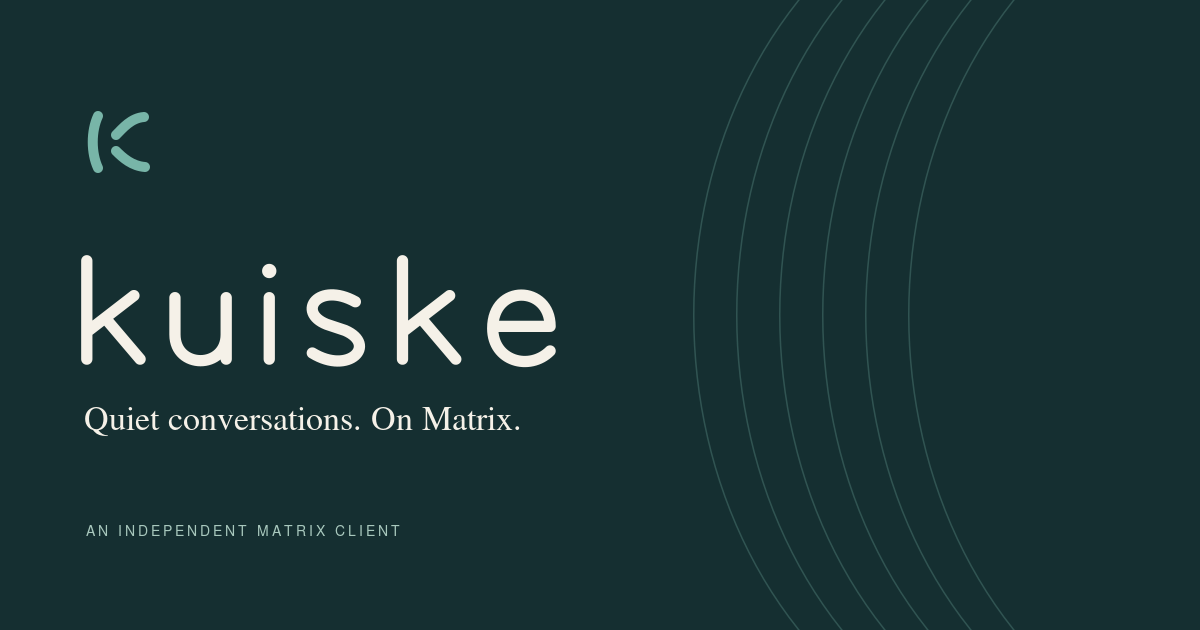
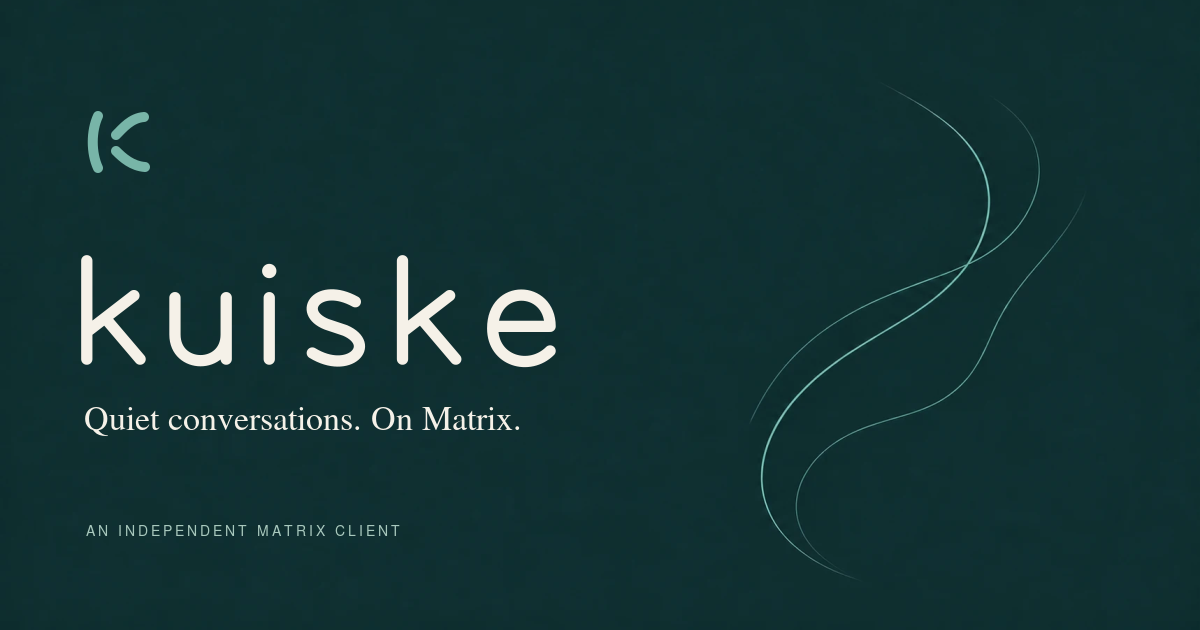
Update Kuiske vanity site

diff --git a/style.css b/style.css
@@ -6,16 +6,16 @@ img{max-width:100%;display:block}a{color:inherit;text-underline-offset:5px}a:hov
 .site-header{display:flex;align-items:center;justify-content:space-between;padding-block:30px;gap:24px;border-bottom:1px solid var(--kuiske-line)}.identity{display:flex;align-items:center;gap:6px;flex-shrink:0}.identity img:last-child{width:108px;height:32px}.site-header nav{display:flex;gap:34px;font-size:13px}.site-header nav a{text-decoration:none}.site-header nav a:hover{text-decoration:underline}
 .hero{display:grid;grid-template-columns:1.1fr 1fr;align-items:center;min-height:650px;position:relative}.hero-copy{padding-block:68px;z-index:1}.eyebrow,.small-label{font-family:var(--kuiske-mono);text-transform:uppercase;font-size:10px;font-weight:500;letter-spacing:1.5px}.eyebrow{display:flex;align-items:center;gap:10px;margin:0 0 30px}.status-dot{display:inline-block;width:6px;height:6px;border-radius:50%;background:var(--kuiske-teal-deep);flex:none}
 h1,h2,h3,p{margin-top:0}h1,h2{font-family:var(--kuiske-serif);font-weight:400;letter-spacing:-2.6px;line-height:1.06}h1{font-size:clamp(48px,5.8vw,82px);margin:0 0 28px}h1 em{color:var(--kuiske-teal-deep);font-weight:400}.hero-description{color:var(--kuiske-muted);font-size:17px;line-height:1.8;margin-bottom:30px}.button{display:inline-flex;align-items:center;gap:40px;text-decoration:none;background:var(--kuiske-ink);color:var(--kuiske-birch);padding:13px 22px;border-radius:5px;font-size:13px;transition:background .15s}.button:hover{background:var(--kuiske-teal-deep)}.hero-note{font-size:11px;color:var(--kuiske-muted);margin:16px 0 0}
-.hero-art{height:500px;position:relative;display:grid;place-items:center;overflow:hidden;background:radial-gradient(ellipse,#e0e7da 0%,#f5f1e8 66%)}.field{position:absolute;width:120%;max-width:none;opacity:.85;transform:rotate(-6deg)}.icon-plinth{transform:rotate(-8deg);padding:20px;border-radius:42px;background:#e9ece2;box-shadow:8px 30px 70px #152f311a,-7px -7px 30px #ffffff85;z-index:1}.icon-plinth img{border-radius:36px;box-shadow:4px 9px 17px #152f3124}.art-annotation{position:absolute;bottom:22px;left:10%;font-family:var(--kuiske-mono);font-size:11px}.art-annotation span{font-size:10px;color:var(--kuiske-muted)}
+.hero-art{height:500px;position:relative;overflow:hidden}.hero-image{width:100%;height:100%;object-fit:contain;mask-image:radial-gradient(ellipse 65% 64% at 55% 48%,#000 45%,transparent 85%)}.art-annotation{position:absolute;bottom:22px;left:10%;font-family:var(--kuiske-mono);font-size:11px}.art-annotation span{font-size:10px;color:var(--kuiske-muted)}
 .intro-line{display:flex;align-items:center;gap:40px;border-block:1px solid var(--kuiske-line);padding-block:21px}.intro-line>span:first-child{font:10px var(--kuiske-mono);letter-spacing:1.4px}.intro-line p{margin:0;font-size:13px;color:var(--kuiske-muted)}.intro-line>span:last-child{margin-left:auto;font-size:24px}
 .idea{padding-block:100px;display:grid;grid-template-columns:1fr 1fr;column-gap:80px}.idea>.eyebrow{grid-column:1/-1;margin-bottom:24px}h2{font-size:clamp(34px,4vw,52px);letter-spacing:-1.7px;margin-bottom:24px}.idea h2{margin-bottom:0}.idea-body{max-width:440px;color:var(--kuiske-muted);padding-top:4px}.idea-body p:last-child{margin-bottom:0}
 .inside{padding-top:35px;padding-bottom:90px}.section-heading{display:flex;justify-content:space-between;align-items:end;margin-bottom:32px;gap:24px}.section-heading .eyebrow{margin-bottom:16px}.section-heading h2{font-size:38px;margin:0}.small-label{font-size:9px;white-space:nowrap;color:var(--kuiske-muted)}
 .product-figure{margin:0}.product-window{border:1px solid #304144;border-radius:12px;overflow:hidden;background:#10191b;color:#e9efea;box-shadow:0 24px 48px #152f3114;font-size:12px}.window-bar{height:42px;padding-inline:18px;display:flex;align-items:center;justify-content:space-between;background:#1d2c30;border-bottom:1px solid #304144;font-size:11px}.window-bar>span:first-child{letter-spacing:5px;color:#8a9c94;font-size:9px}.window-bar>span:last-child{color:#a0b3b0;font-size:10px}.product-body{display:grid;grid-template-columns:145px 115px 225px 1fr;min-height:400px}.mock-accounts,.mock-spaces,.mock-rooms{position:relative;background:#172326;border-right:1px solid #304144;padding:22px 14px}.mock-label{font:8px var(--kuiske-mono);letter-spacing:1.2px;color:#a0b3b0;margin:0 0 18px}.mock-accounts>img{margin:0 0 24px -4px}.mock-account{display:flex;align-items:center;gap:8px;padding:9px 3px;margin-bottom:7px;font-size:10px}.mock-account>b{border-radius:7px;width:24px;height:27px;display:grid;place-items:center;background:#78b5a8;color:#152f31;font-size:11px}.mock-account>b.lichen{background:#d1dbbc}.mock-account small{display:block;color:#a0b3b0;font-size:8px}.mock-bottom{position:absolute;bottom:20px;font-size:9px;color:#a0b3b0}.mock-spaces>p:not(.mock-label){padding:8px 5px;font-size:10px}.mock-active{background:#263b3c;border-radius:4px}.mock-search{font-size:10px;border:1px solid #304144;padding:9px;border-radius:5px;color:#a0b3b0}.mock-room{display:flex;gap:10px;align-items:center;margin-bottom:10px;padding:12px 7px}.mock-room>span{font-size:17px;color:#78b5a8}.mock-room div{font-size:10px}.mock-room small{display:block;color:#a0b3b0;font-size:8px;margin-top:5px}.mock-conversation{padding:0 22px 20px;display:flex;flex-direction:column;min-width:0}.mock-chat-heading{border-bottom:1px solid #304144;margin-inline:-22px;padding:17px 22px}.mock-chat-heading>b{font-size:14px;font-weight:500}.mock-chat-heading small{display:block;color:#a0b3b0;font-size:9px;margin-top:4px}.mock-date{text-align:center;color:#a0b3b0;font:8px var(--kuiske-mono);margin:18px 0}.mock-message{max-width:87%;align-self:flex-start;margin-bottom:16px}.mock-message>span{font-size:9px;color:#a0b3b0}.mock-message time{font-size:8px;padding-left:6px}.mock-message p{background:#1d2c30;border:1px solid #304144;border-radius:0 10px 10px;padding:10px 13px;margin:5px 0 0;font-size:11px}.mock-message.own{align-self:flex-end}.mock-message.own>span{display:block;text-align:right}.mock-message.own p{background:#263d38;border-color:#3f5d50;border-radius:10px 0 10px 10px}.mock-composer{margin-top:auto;border:1px solid #304144;border-radius:6px;padding:10px 12px;color:#a0b3b0;font-size:10px;display:flex;justify-content:space-between}.mock-composer>span{color:#c8ddac}
 figcaption{display:flex;align-items:center;gap:8px;color:var(--kuiske-muted);font-size:10px;margin-top:16px}.features{display:grid;grid-template-columns:repeat(3,1fr);gap:52px;margin-top:55px}.feature-number{font:10px var(--kuiske-mono);color:var(--kuiske-teal-deep);display:block;margin-bottom:18px}.features h3{font-size:16px;font-weight:500;letter-spacing:-.3px;margin-bottom:13px}.features p{font-size:13px;color:var(--kuiske-muted);line-height:1.8;margin-bottom:0}
-.project{border-block:1px solid var(--kuiske-line);padding-block:76px;display:grid;grid-template-columns:1.2fr 1fr;gap:100px}.project>div>p:not(.eyebrow){color:var(--kuiske-muted);font-size:14px;max-width:460px}.project-note{background:#e6eadd;padding:32px 36px;border-radius:6px;align-self:start}.project-note>p{font-family:var(--kuiske-serif);font-size:30px;line-height:1.2;letter-spacing:-.6px;margin:24px 0}.project-note dl{margin:0 0 28px}.project-note dl>div{display:flex;align-items:baseline;gap:16px;font-size:12px;padding:9px 0;border-bottom:1px solid #cbd2c2}.project-note dt{width:76px;font-weight:500}.project-note dt a{text-decoration:none}.project-note dd{color:var(--kuiske-muted);margin:0}.text-link{font-size:12px}.closing{display:flex;align-items:center;gap:20px;padding-block:48px}.closing>p{font-family:var(--kuiske-serif);font-size:24px;letter-spacing:-.5px;margin:0}.closing strong{font-weight:400}.closing>span{margin-left:auto;font-size:11px;color:var(--kuiske-muted)}footer{border-top:1px solid var(--kuiske-line);padding-block:24px 36px;display:flex;justify-content:space-between;gap:24px;font-size:10px;color:var(--kuiske-muted)}footer p{margin:0}footer>div{display:flex;gap:24px}footer a{text-decoration:none}
+.project{border-block:1px solid var(--kuiske-line);padding-block:76px;display:grid;grid-template-columns:1.2fr 1fr;gap:100px}.project>div>p:not(.eyebrow){color:var(--kuiske-muted);font-size:14px;max-width:460px}.project-note{background:#e6eadd;padding:32px 36px;border-radius:6px;align-self:start}.family-detail{width:calc(100% + 72px);max-width:none;height:160px;object-fit:cover;object-position:center 45%;margin:-32px -36px 28px;border-radius:6px 6px 0 0}.project-note>p{font-family:var(--kuiske-serif);font-size:30px;line-height:1.2;letter-spacing:-.6px;margin:24px 0}.project-note dl{margin:0 0 28px}.project-note dl>div{display:flex;align-items:baseline;gap:16px;font-size:12px;padding:9px 0;border-bottom:1px solid #cbd2c2}.project-note dt{width:76px;font-weight:500}.project-note dt a{text-decoration:none}.project-note dd{color:var(--kuiske-muted);margin:0}.text-link{font-size:12px}.closing{display:flex;align-items:center;gap:20px;padding-block:48px}.closing>p{font-family:var(--kuiske-serif);font-size:24px;letter-spacing:-.5px;margin:0}.closing strong{font-weight:400}.closing>span{margin-left:auto;font-size:11px;color:var(--kuiske-muted)}footer{border-top:1px solid var(--kuiske-line);padding-block:24px 36px;display:flex;justify-content:space-between;gap:24px;font-size:10px;color:var(--kuiske-muted)}footer p{margin:0}footer>div{display:flex;gap:24px}footer a{text-decoration:none}
 @media(min-width:1440px){.hero h1{font-size:86px}}
-@media(max-width:1050px){.wrap{width:calc(100% - 64px)}.hero{min-height:570px}.hero-art{height:420px}.icon-plinth{padding:16px}.icon-plinth img{width:140px;height:140px}.product-body{grid-template-columns:115px 95px 175px 1fr}.mock-rooms,.mock-accounts,.mock-spaces{padding-inline:10px}.mock-room{padding-inline:5px}.mock-room small{font-size:7px}.project{gap:50px}.features{gap:30px}.idea{gap:40px}.section-heading h2{font-size:34px}}
-@media(max-width:760px){.wrap{width:calc(100% - 40px)}.site-header{padding-block:20px}.site-header nav{gap:18px;font-size:11px}.site-header nav a:first-child{display:none}.identity{gap:0}.identity img:first-child{width:32px;height:32px}.identity img:last-child{width:95px;height:28px}.hero{grid-template-columns:1fr;min-height:auto}.hero-copy{padding-block:52px 0}h1{font-size:clamp(46px,10vw,68px);letter-spacing:-1.8px}.hero-description{font-size:15px}.hero .eyebrow{font-size:9px;letter-spacing:1px;margin-bottom:24px}.hero-art{height:340px;max-width:440px;width:100%;margin-inline:auto}.field{width:100%;height:100%}.icon-plinth{padding:12px;border-radius:34px}.icon-plinth img{width:112px;height:112px;border-radius:24px}.art-annotation{bottom:20px;left:12%}.hero-note{font-size:10px}.intro-line{gap:20px;padding-block:17px}.intro-line>span:first-child{font-size:8px}.intro-line p{font-size:11px;max-width:170px}.intro-line>span:last-child{font-size:20px}.idea{padding-block:60px;grid-template-columns:1fr;gap:0}.idea>.eyebrow{margin-bottom:20px}.idea h2{margin-bottom:24px}.idea-body{font-size:14px}.inside{padding-top:15px;padding-bottom:60px}.section-heading{align-items:start}.section-heading h2{font-size:30px;max-width:280px}.section-heading>.small-label{display:none}.product-window{border-radius:8px}.product-body{grid-template-columns:100px 1fr;min-height:390px}.mock-spaces,.mock-accounts{display:none}.mock-rooms{padding:20px 6px}.mock-rooms .mock-label{font-size:6px;letter-spacing:.5px}.mock-room{padding:10px 4px;gap:5px;align-items:start}.mock-room>span{font-size:12px}.mock-room div{font-size:8px}.mock-room small{font-size:7px;overflow-wrap:anywhere}.mock-search{font-size:8px;padding:6px}.mock-conversation{padding-inline:12px}.mock-chat-heading{margin-inline:-12px;padding-inline:12px}.mock-chat-heading>b{font-size:12px}.mock-chat-heading small{font-size:8px}.mock-message p{padding:9px;font-size:10px}.window-bar>span:last-child{display:none}.window-bar{height:34px;font-size:10px}.mock-composer{font-size:9px;padding-inline:9px}.features{grid-template-columns:1fr;gap:26px;margin-top:32px}.features article{display:grid;grid-template-columns:28px 1fr;column-gap:12px}.feature-number{grid-row:1/3;margin-top:5px}.features h3{margin-bottom:8px}.features p{grid-column:2}.project{grid-template-columns:1fr;gap:28px;padding-block:52px}.project .eyebrow{font-size:8px;letter-spacing:1px}.project-note{padding:26px}.project-note>p{font-size:28px}.closing{gap:12px;padding-block:32px;flex-wrap:wrap}.closing img{width:36px;height:36px}.closing>p{font-size:21px}.closing>span{margin:0 0 0 48px}footer{flex-direction:column;gap:14px;font-size:9px}footer>div{gap:20px;flex-wrap:wrap}figcaption{font-size:9px;align-items:baseline}}
+@media(max-width:1050px){.wrap{width:calc(100% - 64px)}.hero{min-height:570px}.hero-art{height:420px}.product-body{grid-template-columns:115px 95px 175px 1fr}.mock-rooms,.mock-accounts,.mock-spaces{padding-inline:10px}.mock-room{padding-inline:5px}.mock-room small{font-size:7px}.project{gap:50px}.features{gap:30px}.idea{gap:40px}.section-heading h2{font-size:34px}}
+@media(max-width:760px){.wrap{width:calc(100% - 40px)}.site-header{padding-block:20px}.site-header nav{gap:18px;font-size:11px}.site-header nav a:first-child{display:none}.identity{gap:0}.identity img:first-child{width:32px;height:32px}.identity img:last-child{width:95px;height:28px}.hero{grid-template-columns:1fr;min-height:auto}.hero-copy{padding-block:52px 0}h1{font-size:clamp(46px,10vw,68px);letter-spacing:-1.8px}.hero-description{font-size:15px}.hero .eyebrow{font-size:9px;letter-spacing:1px;margin-bottom:24px}.hero-art{height:340px;max-width:440px;width:100%;margin-inline:auto}.art-annotation{bottom:20px;left:12%}.hero-note{font-size:10px}.intro-line{gap:20px;padding-block:17px}.intro-line>span:first-child{font-size:8px}.intro-line p{font-size:11px;max-width:170px}.intro-line>span:last-child{font-size:20px}.idea{padding-block:60px;grid-template-columns:1fr;gap:0}.idea>.eyebrow{margin-bottom:20px}.idea h2{margin-bottom:24px}.idea-body{font-size:14px}.inside{padding-top:15px;padding-bottom:60px}.section-heading{align-items:start}.section-heading h2{font-size:30px;max-width:280px}.section-heading>.small-label{display:none}.product-window{border-radius:8px}.product-body{grid-template-columns:100px 1fr;min-height:390px}.mock-spaces,.mock-accounts{display:none}.mock-rooms{padding:20px 6px}.mock-rooms .mock-label{font-size:6px;letter-spacing:.5px}.mock-room{padding:10px 4px;gap:5px;align-items:start}.mock-room>span{font-size:12px}.mock-room div{font-size:8px}.mock-room small{font-size:7px;overflow-wrap:anywhere}.mock-search{font-size:8px;padding:6px}.mock-conversation{padding-inline:12px}.mock-chat-heading{margin-inline:-12px;padding-inline:12px}.mock-chat-heading>b{font-size:12px}.mock-chat-heading small{font-size:8px}.mock-message p{padding:9px;font-size:10px}.window-bar>span:last-child{display:none}.window-bar{height:34px;font-size:10px}.mock-composer{font-size:9px;padding-inline:9px}.features{grid-template-columns:1fr;gap:26px;margin-top:32px}.features article{display:grid;grid-template-columns:28px 1fr;column-gap:12px}.feature-number{grid-row:1/3;margin-top:5px}.features h3{margin-bottom:8px}.features p{grid-column:2}.project{grid-template-columns:1fr;gap:28px;padding-block:52px}.project .eyebrow{font-size:8px;letter-spacing:1px}.project-note{padding:26px}.family-detail{width:calc(100% + 52px);margin:-26px -26px 26px;height:170px}.project-note>p{font-size:28px}.closing{gap:12px;padding-block:32px;flex-wrap:wrap}.closing img{width:36px;height:36px}.closing>p{font-size:21px}.closing>span{margin:0 0 0 48px}footer{flex-direction:column;gap:14px;font-size:9px}footer>div{gap:20px;flex-wrap:wrap}figcaption{font-size:9px;align-items:baseline}}
 @media(prefers-reduced-motion:reduce){html{scroll-behavior:auto}*{transition:none!important}}
 
 @media(max-width:380px){.site-header{gap:10px}.site-header nav{gap:12px;font-size:10px}}

diff --git a/brand.html b/brand.html
@@ -31,10 +31,16 @@
       <article><div class="asset-preview dark"><img src="assets/icon.svg" alt="Kuiske application icon" width="128" height="128"></div><h3>Application icon</h3><p>The flat master stays crisp at small sizes. Rounded corners are part of this desktop/web treatment.</p><div class="asset-links"><a href="assets/icon.svg" download>SVG</a><a href="assets/icon-1024.png" download>1024 PNG</a><a href="assets/kuiske.ico" download>ICO</a><a href="assets/kuiske.icns" download>ICNS</a></div></article>
       <article><div class="asset-preview"><img src="assets/wordmark.svg" alt="Kuiske wordmark" width="270" height="80"></div><h3>Outlined wordmark</h3><p>Original lettering made from paths. No font download, substitution or license dependency.</p><div class="asset-links"><a href="assets/wordmark.svg" download>Ink SVG</a><a href="assets/wordmark-birch.svg" download>Birch SVG</a></div></article>
       <article><div class="asset-preview dark field-preview"><img src="assets/whisper-field.svg" alt="Soft teal curves echoing the mark" width="800" height="800"></div><h3>Whisper field</h3><p>A scalable family of curves for backgrounds and framing. Leave plenty of breathing room.</p><div class="asset-links"><a href="assets/whisper-field.svg" download>SVG</a><a href="assets/mark-1024.png" download>Transparent mark PNG</a></div></article>
-      <article><div class="asset-preview social-preview"><img src="assets/social-card.png" alt="Kuiske social card: quiet conversations on Matrix" width="1200" height="630"></div><h3>Social card</h3><p>A 1200 × 630 export with a matching editable SVG source. Ready for the future site’s share preview.</p><div class="asset-links"><a href="assets/social-card.svg" download>SVG</a><a href="assets/social-card.png" download>1200 × 630 PNG</a></div></article>
+      <article><div class="asset-preview social-preview"><img src="assets/social-card.png" alt="Kuiske social card: quiet conversations on Matrix" width="1200" height="630" loading="lazy"></div><h3>Social card</h3><p>The vector identity on a generated whisper background. A 1200 × 630 share card with an editable, self-contained SVG.</p><div class="asset-links"><a href="assets/social-card.svg" download>SVG</a><a href="assets/social-card.png" download>1200 × 630 PNG</a></div></article>
     </div></section>
-    <section class="brand-notes"><div><h2>Keep it quiet.</h2><p>Use the ink mark on birch and the teal or birch mark on ink. Keep at least one stroke’s width of clear space. At small sizes, use the icon without the wordmark. Teal is an accent; use ink for text on birch.</p></div><div><h2>A living direction.</h2><p>This kit is an original design proposal for Kuiske. The SVGs are editable source artwork, and exports can be regenerated. The app icon has a web favicon integration; native bundle packaging remains separate. Original assets use the repository’s MIT license.</p></div></section>
+    <section class="asset-section" aria-labelledby="companion-title"><p class="eyebrow">Companion imagery</p><h2 id="companion-title">Paper, bark, and a passing whisper.</h2><p class="companion-intro">AI-generated artwork exploring the same quiet Nordic palette. The SVG mark and icon above remain the production masters.</p><div class="asset-grid">
+      <article><div class="asset-preview imagery-preview hero-preview"><img src="assets/hero-art.webp" alt="Three detached ink, teal and lichen paper forms on an open birch ground." width="1536" height="1024" loading="lazy" decoding="async"></div><h3>Paper forms</h3><p>An airy hero composition with room on the left for live text. The landing page uses a tighter crop of the forms.</p><div class="asset-links"><a href="assets/hero-art.webp" download>1536 × 1024 WebP</a></div></article>
+      <article><div class="asset-preview imagery-preview"><img src="assets/birch-detail.webp" alt="Pale birch bark and delicate leaves against a softly blurred teal woodland." width="1254" height="1254" loading="lazy" decoding="async"></div><h3>A little birch bark</h3><p>Natural texture and diffuse northern light. A small detail to bring warmth to the wider family.</p><div class="asset-links"><a href="assets/birch-detail.webp" download>1254 × 1254 WebP</a></div></article>
+      <article><div class="asset-preview dark"><img src="assets/icon-treatment-512.webp" alt="Generated Kuiske icon treatment: three teal strokes on an ink rounded square." width="200" height="200" loading="lazy" decoding="async"></div><h3>Raster icon study</h3><p>An optional treatment matched from PNG references, with a repaired transparent exterior. Use the SVG master for exact geometry and small-size exports.</p><div class="asset-links"><a href="assets/icon-treatment.png" download>1254 × 1254 PNG</a><a href="assets/icon.svg" download>Production SVG</a></div></article>
+      <article><div class="asset-preview imagery-preview social-preview"><img src="assets/social-background.webp" alt="Sparse teal whisper curves gathering on the right of a deep ink background." width="1717" height="916" loading="lazy" decoding="async"></div><h3>Room for a few words</h3><p>A quiet background for social cards. Keep copy on the left and leave the curves room to breathe.</p><div class="asset-links"><a href="assets/social-background.webp" download>1717 × 916 WebP</a></div></article>
+    </div></section>
+    <section class="brand-notes"><div><h2>Keep it quiet.</h2><p>Use the ink mark on birch and the teal or birch mark on ink. Keep at least one stroke’s width of clear space. At small sizes, use the icon without the wordmark. Teal is an accent; use ink for text on birch.</p></div><div><h2>A living direction.</h2><p>This kit is a design proposal for Kuiske. The SVGs are editable source artwork, and exports can be regenerated. The app icon has a web favicon integration; native bundle packaging remains separate. Site code and the original vector identity use the repository’s MIT license.</p></div></section>
   </main>
-  <footer class="wrap"><p>Kuiske · quiet conversations.</p><div><a href="index.html">Back to Kuiske</a><a href="LICENSE.txt">Original work · MIT</a></div></footer>
+  <footer class="wrap"><p>Kuiske · quiet conversations.</p><div><a href="index.html">Back to Kuiske</a><a href="LICENSE.txt">Site &amp; vector identity · MIT</a></div></footer>
 </body>
 </html>

diff --git a/index.html b/index.html
@@ -38,8 +38,7 @@
         <p class="hero-note">Made for desktop. Growing at its own pace.</p>
       </div>
       <div class="hero-art" aria-hidden="true">
-        <img class="field" src="assets/whisper-field.svg" alt="" width="800" height="800">
-        <div class="icon-plinth"><img src="assets/icon.svg" alt="" width="168" height="168"></div>
+        <img class="hero-image" src="assets/hero-art-1024.webp" srcset="assets/hero-art-640.webp 640w, assets/hero-art-1024.webp 1024w" sizes="(max-width: 760px) min(440px, 100vw - 40px), 550px" alt="" width="1024" height="1024" fetchpriority="high">
         <span class="art-annotation">kuiske <span> / Finnish for whispering</span></span>
       </div>
     </section>
@@ -71,10 +70,10 @@
     </section>
     <section class="project wrap" id="project" aria-labelledby="project-title">
       <div><p class="eyebrow">Small beginnings. Thoughtful foundations.</p><h2 id="project-title">Taking shape,<br>one conversation at a time.</h2><p>Kuiske is in early development. We’re building a desktop client for Linux and Apple Silicon macOS. Public downloads aren’t available yet.</p><p>Mobile is a future possibility. For now, we’re giving desktop the time and attention it deserves.</p></div>
-      <aside class="project-note" aria-label="Project details"><span class="small-label">FROM THE TERVA FAMILY</span><p>A whisper, a thread,<br>a little birch bark.</p><dl><div><dt>Kuiske</dt><dd>The conversation.</dd></div><div><dt><a href="https://github.com/terva-sh/rihma">rihma <span aria-hidden="true">↗</span></a></dt><dd>The Matrix connection.</dd></div><div><dt><a href="https://github.com/terva-sh/tuohi">tuohi <span aria-hidden="true">↗</span></a></dt><dd>The desktop window.</dd></div></dl><a class="text-link" href="https://terva.sh">Meet the family <span aria-hidden="true">↗</span></a></aside>
+      <aside class="project-note" aria-label="Project details"><img class="family-detail" src="assets/birch-detail-480.webp" srcset="assets/birch-detail-480.webp 480w, assets/birch-detail.webp 1254w" sizes="(max-width: 760px) 100vw, 460px" alt="" width="1254" height="1254" loading="lazy" decoding="async"><span class="small-label">FROM THE TERVA FAMILY</span><p>A whisper, a thread,<br>a little birch bark.</p><dl><div><dt>Kuiske</dt><dd>The conversation.</dd></div><div><dt><a href="https://github.com/terva-sh/rihma">rihma <span aria-hidden="true">↗</span></a></dt><dd>The Matrix connection.</dd></div><div><dt><a href="https://github.com/terva-sh/tuohi">tuohi <span aria-hidden="true">↗</span></a></dt><dd>The desktop window.</dd></div></dl><a class="text-link" href="https://terva.sh">Meet the family <span aria-hidden="true">↗</span></a></aside>
     </section>
     <section class="closing wrap" aria-label="Kuiske name"><img src="assets/mark-ink.svg" alt="" width="56" height="56"><p><strong>Kuiske.</strong> Finnish for whispering.</p><span>Some things are better said softly.</span></section>
   </main>
-  <footer class="wrap"><p>Quiet conversations. Open possibilities.</p><div><a href="brand.html">Brand &amp; assets</a><a href="https://matrix.org">Built on Matrix <span aria-hidden="true">↗</span></a><span>Original work · MIT</span></div></footer>
+  <footer class="wrap"><p>Quiet conversations. Open possibilities.</p><div><a href="brand.html">Brand &amp; assets</a><a href="https://matrix.org">Built on Matrix <span aria-hidden="true">↗</span></a><span>Site &amp; vector identity · MIT</span></div></footer>
 </body>
 </html>

diff --git a/brand.css b/brand.css
@@ -2,3 +2,5 @@
 @media(max-width:760px){.brand-main{padding-block:44px}.brand-intro{font-size:14px;margin-bottom:36px}.brand-main h2{font-size:27px}.study-heading{align-items:start;flex-wrap:wrap}.mark-stage{gap:8px;padding:24px 16px}.mark-stage>img:first-child{width:120px;height:120px}.mark-stage>img:nth-child(2){width:170px;height:50px}.small-sizes{margin-top:20px}.palette{grid-template-columns:1fr 1fr}.palette>div{gap:30px;padding:20px}.asset-grid{grid-template-columns:1fr;gap:34px}.asset-preview{height:220px}.brand-notes{grid-template-columns:1fr;gap:16px}.palette-section,.asset-section{margin-top:48px}}
 
 @media(max-width:760px){.site-header nav a:first-child{display:inline}}
+
+.companion-intro{max-width:580px;font-size:14px;color:var(--kuiske-muted);margin-bottom:28px}.imagery-preview>img{width:100%;height:100%;object-fit:cover}.hero-preview{background:var(--kuiske-birch)}.hero-preview>img,.imagery-preview.social-preview>img{object-fit:contain}
